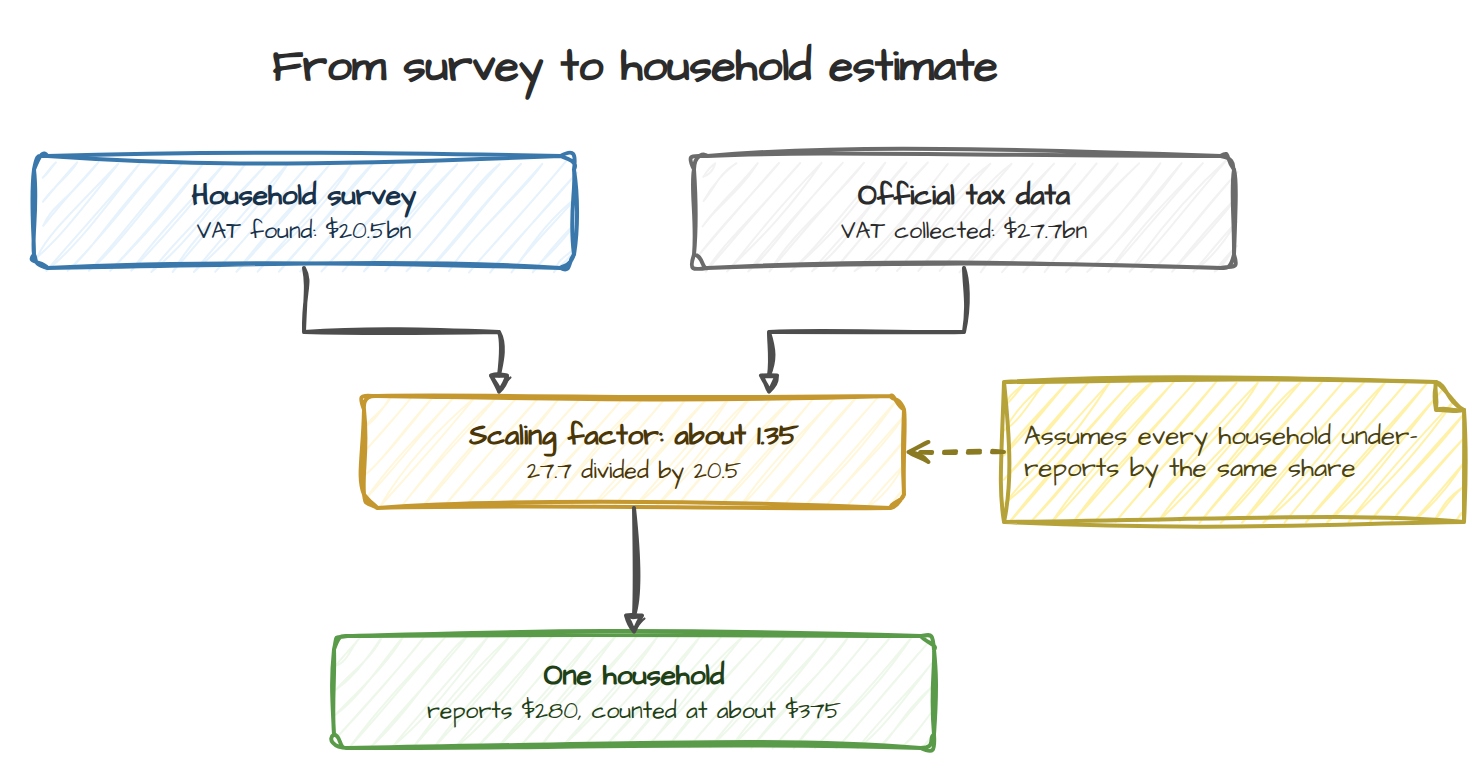
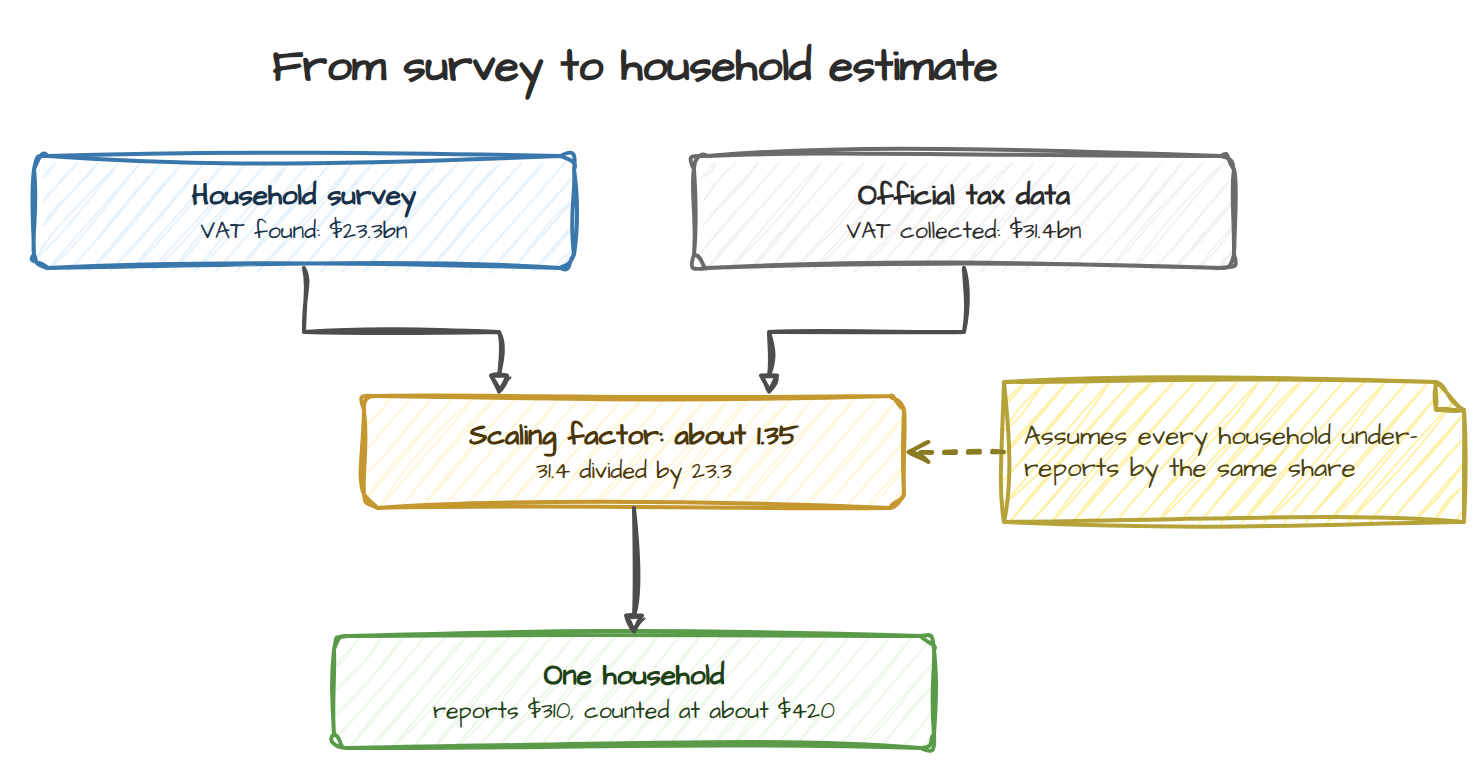
Convert explainer figures at 3.18 NIS per dollar

diff --git a/_posts/2026-11-10-taxes-and-wonders-explainer-en.md b/_posts/2026-11-10-taxes-and-wonders-explainer-en.md
@@ -27,7 +27,7 @@ The paper is about 47 pages, with 34 charts and one big table. I read it chart b
 
 All numbers come from the paper. When I calculated something myself, I say so. Charts marked "my chart" are my redraws of the paper's values, not the originals.
 
-> Money in this post: the paper uses shekels (NIS). I convert to US dollars at 3.6 NIS per $, about the 2018 average. This is the market rate, not purchasing power, so treat dollars as a rough feel for size. All figures are 2018 and rounded.
+> Money in this post: the paper uses shekels (NIS). I convert to US dollars at 3.18 NIS per $, the current rate. The data is from 2018, so this mixes 2018 shekels with today's exchange rate and ignores inflation and purchasing power. Treat dollars as a rough feel for size. All figures are rounded.
 {: .prompt-info }
 
 ## 02. The question
@@ -40,15 +40,15 @@ Second, most of what the state gives is not cash. It is a school, a clinic, a bu
 
 So the paper assigns each household a tax burden and a value of services received, then subtracts.
 
-The paper's own example (p. 3): the Cohen family gets $700 a month from the state in cash. Another family gets no cash, but its kids go to a public school that costs the state the same $700 a month in teacher pay. For the treasury these are the same. For a payslip they look very different. The paper counts both.
+The paper's own example (p. 3): the Cohen family gets $790 a month from the state in cash. Another family gets no cash, but its kids go to a public school that costs the state the same $790 a month in teacher pay. For the treasury these are the same. For a payslip they look very different. The paper counts both.
 
 ## 03. The headline result
 
 The paper's summary (p. 2), per household per month:
 
-- Non-Haredi Jewish household: pays about $1,700 more than it gets back. About 70% of these households pay more than they get.
-- Haredi (ultra-Orthodox) household: gets about $1,100 more than it pays. About 80% get more.
-- Arab household: gets about $280 more. About 60% get more.
+- Non-Haredi Jewish household: pays about $1,900 more than it gets back. About 70% of these households pay more than they get.
+- Haredi (ultra-Orthodox) household: gets about $1,300 more than it pays. About 80% get more.
+- Arab household: gets about $310 more. About 60% get more.
 
 The paper is positive, not normative. It describes what is, and does not say if it is fair or right (p. 4).
 
@@ -69,10 +69,10 @@ Why not newer years? The response rate fell from about 75% to about 64% in 2019 
 
 The survey alone is not enough. People under-report what they spend, so the survey finds less VAT than the state collected. The fix is simple. The authors take the official total, divide it by the survey total, and multiply every household by that factor.
 
-![Diagram: survey VAT of $20.5bn and official VAT of $27.7bn give a scaling factor of about 1.35, so a household that reports $280 is counted at about $375](/assets/images/taxes-explainer-en/scaling-flow.png)
-_My diagram. The two totals are from Table 1 of the paper. The $280 household is made up._
+![Diagram: survey VAT of $23.3bn and official VAT of $31.4bn give a scaling factor of about 1.35, so a household that reports $310 is counted at about $420](/assets/images/taxes-explainer-en/scaling-flow.png)
+_My diagram. The two totals are from Table 1 of the paper. The $310 household is made up._
 
-For VAT the factor is about 1.35 (my calculation: 99.87 divided by 73.97, in shekel billions). A household that reports $280 of VAT gets counted at about $375.
+For VAT the factor is about 1.35 (my calculation: 99.87 divided by 73.97, in shekel billions). A household that reports $310 of VAT gets counted at about $420.
 
 This assumes everybody under-reports by the same share. If richer households under-report more, the same factor does not fix it. I found no test of this in the paper or the appendix.
 
@@ -96,36 +96,36 @@ Cash benefits and services are counted by who uses them. Schools by the ages of 
 
 ## 07. The main chart: taxes, services, net
 
-Taxes counted in the main analysis: $113bn. Services counted: $74bn. The paper's tax total covers about 96% of what the state collects. Its spending total covers about 50% of what the state spends. Earlier studies, the authors say, covered about 27% of taxes and 14% of spending (p. 46).
+Taxes counted in the main analysis: $127.5bn. Services counted: $84.2bn. The paper's tax total covers about 96% of what the state collects. Its spending total covers about 50% of what the state spends. Earlier studies, the authors say, covered about 27% of taxes and 14% of spending (p. 46).
 
 Here are the values for each income decile (charts 6, 17 and 2 of the paper):
 
-![Bar chart by income decile: taxes rising from about $1,050 to about $10,130 a month, services falling slowly from about $2,930 to about $2,160, and net transfer going from +$1,880 to −$7,970](/assets/images/taxes-explainer-en/net-by-decile.svg)
+![Bar chart by income decile: taxes rising from about $1,190 to about $11,470 a month, services falling slowly from about $3,320 to about $2,450, and net transfer going from +$2,130 to −$9,020](/assets/images/taxes-explainer-en/net-by-decile.svg)
 _My chart, from charts 2, 6 and 17 of the paper. USD per household per month, rounded._
 
 We can read three things:
 
-- Taxes climb steeply, from about $1,050 in decile 1 to about $10,130 in decile 10.
-- Services are almost flat. Decile 1 gets about $2,930 and decile 10 about $2,160.
+- Taxes climb steeply, from about $1,190 in decile 1 to about $11,470 in decile 10.
+- Services are almost flat. Decile 1 gets about $3,320 and decile 10 about $2,450.
 - The net transfer is the gap between the two. It turns negative at decile 5.
 
-The top decile's net of −$7,970 a month is the biggest bar. But it does not mean the top decile "funds" the bottom one. Taxes also pay for things the paper does not count, like defense and interest. That is why taxes ($113bn) are bigger than the services counted ($74bn). The gap is about $38bn a year (the paper says about 138 billion shekels, p. 8).
+The top decile's net of −$9,020 a month is the biggest bar. But it does not mean the top decile "funds" the bottom one. Taxes also pay for things the paper does not count, like defense and interest. That is why taxes ($127.5bn) are bigger than the services counted ($84.2bn). The gap is about $43bn a year (the paper says about 138 billion shekels, p. 8).
 
 ## 08. The same chart, by group
 
 The paper splits households into three groups: non-Haredi Jews, Haredi Jews and Arab citizens (chart 3).
 
-![Two bar panels. Per household per month: non-Haredi Jews −$1,700, Haredi Jews +$1,140, Arab citizens +$290. Total per year: −$41.9bn, +$2.3bn, +$1.3bn](/assets/images/taxes-explainer-en/net-by-sector.svg)
+![Two bar panels. Per household per month: non-Haredi Jews −$1,920, Haredi Jews +$1,290, Arab citizens +$330. Total per year: −$47.4bn, +$2.6bn, +$1.5bn](/assets/images/taxes-explainer-en/net-by-sector.svg)
 _My chart, from chart 3 of the paper. Without defense and infrastructure, and without the cost of military service._
 
-Look at both panels. The Haredi group gets +$1,140 per household, but only +$2.3bn in total. The reason is size. The yearly total depends on how many households are in the group. Working back (my calculation), that is about 168,000 Haredi households, about 378,000 Arab households and about 2.06 million non-Haredi Jewish households.
+Look at both panels. The Haredi group gets +$1,290 per household, but only +$2.6bn in total. The reason is size. The yearly total depends on how many households are in the group. Working back (my calculation), that is about 168,000 Haredi households, about 378,000 Arab households and about 2.06 million non-Haredi Jewish households.
 
 Where do the percentages from the summary come from? The paper also splits each group into its own ten deciles (chart 4). Net transfers turn negative from decile 4 for non-Haredi Jews, decile 7 for Arab citizens and decile 9 for Haredi Jews. So about 30%, 60% and 80% of these groups respectively are net receivers.
 
 Two warnings:
 
 - A group's decile is inside that group. Decile 10 of the Arab group is not the national top decile.
-- Military service is not in the numbers. Conscription is a hidden tax, because conscripts earn less than their economic cost. A separate study puts it at about 3.7% of GDP, about $14bn in 2018. The survey has no data on service, so the paper cannot assign it. The authors say the burden falls mostly on non-Haredi Jews, so their negative figure would be larger (p. 36).
+- Military service is not in the numbers. Conscription is a hidden tax, because conscripts earn less than their economic cost. A separate study puts it at about 3.7% of GDP, about $15bn in 2018. The survey has no data on service, so the paper cannot assign it. The authors say the burden falls mostly on non-Haredi Jews, so their negative figure would be larger (p. 36).
 
 ## 09. Taxes: who pays what
 
@@ -138,15 +138,15 @@ Income tax and social insurance grow fast with income. VAT, excise and customs g
 
 Two examples (my calculation):
 
-- VAT is 45% of the bottom decile's tax bill ($470 of $1,050).
-- Income tax is 42% of the top decile's tax bill ($4,280 of $10,130).
+- VAT is 45% of the bottom decile's tax bill ($530 of $1,190).
+- Income tax is 42% of the top decile's tax bill ($4,840 of $11,470).
 
-The income tax ratio is huge because the bottom decile pays only about $6 a month. Most of them are under the tax threshold.
+The income tax ratio is huge because the bottom decile pays only about $7 a month. Most of them are under the tax threshold.
 
-![Funds flow diagram in USD billions: revenue of about $113bn in counted taxes plus about $34bn of other revenue and borrowing flows into the state, which spends about $74bn on counted services and about $72bn on items not counted](/assets/images/taxes-explainer-en/composition.svg)
+![Funds flow diagram in USD billions: revenue of about $128bn in counted taxes plus about $39bn of other revenue and borrowing flows into the state, which spends about $84bn on counted services and about $82bn on items not counted](/assets/images/taxes-explainer-en/composition.svg)
 _My chart, from Table 1 of the paper (p. 38). The "other revenue, borrowing" bar is my calculation: total spending minus counted taxes._
 
-Read it left to right. VAT ($27.7bn) and income tax ($26.5bn) are the two biggest taxes. National Insurance and health tax is third ($19.6bn). Counted taxes add up to about $113bn. The state spends about $147bn in total, so about $34bn comes from other revenue and borrowing. That figure is my subtraction, not the paper's.
+Read it left to right. VAT ($31.4bn) and income tax ($30.0bn) are the two biggest taxes. National Insurance and health tax is third ($22.2bn). Counted taxes add up to about $128bn. The state spends about $166bn in total, so about $39bn comes from other revenue and borrowing. That figure is my subtraction, not the paper's.
 
 On the right, the blue bars are the services the paper assigns to households. The gray bars are what it leaves out of the main analysis.
 
@@ -163,13 +163,13 @@ Most spending leans to the lower deciles. Three items do not:
 - Cash benefits are about equal, because the old-age pension reaches the upper deciles too.
 - Culture, sport and leisure is the only item that clearly rises with income.
 
-Schools are a strong example of the other direction. Decile 1 gets about $840 a month in education spending per household. Decile 10 gets about $350. The paper says there are more children in the lower deciles (next section).
+Schools are a strong example of the other direction. Decile 1 gets about $950 a month in education spending per household. Decile 10 gets about $400. The paper says there are more children in the lower deciles (next section).
 
 What is left out, and why. The first two enter only a second, wider analysis. The third is not counted anywhere.
 
-- Defense and internal security, about $27bn together. They are public goods. One person using them does not stop another. There is no agreed way to split them. The authors say the result of any split follows directly from the assumptions (p. 35).
-- Infrastructure, about $13bn. It serves future generations too, and the price of water or power already includes building it.
-- Interest on debt, about $9bn, and budget pensions. The debt was created in the past, so it is unclear who should carry today's payment.
+- Defense and internal security, about $30bn together. They are public goods. One person using them does not stop another. There is no agreed way to split them. The authors say the result of any split follows directly from the assumptions (p. 35).
+- Infrastructure, about $14bn. It serves future generations too, and the price of water or power already includes building it.
+- Interest on debt, about $10bn, and budget pensions. The debt was created in the past, so it is unclear who should carry today's payment.
 
 ## 11. Households: kids and age
 
@@ -182,8 +182,8 @@ A decile 1 household has about 1.7 children on average. A decile 10 household ha
 
 The paper also looks at couples by number of children (chart 30):
 
-![Bar chart of net transfers to couples by number of children: 0 children −$1,340, 1 −$2,250, 2 −$2,220, 3 −$2,220, 4 −$270, 5 +$1,490, 6 or more +$3,470 per month](/assets/images/taxes-explainer-en/household-structure.svg)
-_My chart, from chart 30 of the paper. Single parents (0, 1, 2, 3 or more children): −$370, −$290, +$280, +$2,260 a month._
+![Bar chart of net transfers to couples by number of children: 0 children −$1,520, 1 −$2,550, 2 −$2,520, 3 −$2,520, 4 −$300, 5 +$1,690, 6 or more +$3,930 per month](/assets/images/taxes-explainer-en/household-structure.svg)
+_My chart, from chart 30 of the paper. Single parents (0, 1, 2, 3 or more children): −$410, −$320, +$320, +$2,560 a month._
 
 Couples with up to 3 children pay net. With 4 they are about break-even. With 5 or more they receive net. Taxes rise until the third child and fall from the fourth. The paper notes the fall and does not explain it.
 
@@ -195,7 +195,7 @@ The authors ask if the picture holds when the assumptions change.
 
 ### Expenditure deciles
 
-Income in one year is a noisy sign of how well off a family is. Young and old households can have low income now and high spending. So the paper ranks households by spending too (chart 33). The shape is the same. The top decile's net is −$6,150 instead of −$7,970 a month.
+Income in one year is a noisy sign of how well off a family is. Young and old households can have low income now and high spending. So the paper ranks households by spending too (chart 33). The shape is the same. The top decile's net is −$6,960 instead of −$9,020 a month.
 
 ### Gini index
 
@@ -210,7 +210,7 @@ Adding the missing taxes and services lowers measured inequality, from 0.326 to 
 
 The appendix changes the assumptions one at a time, and then together:
 
-- Add the missing spending, about $47bn, in three ways. Net-negative deciles shrink from 5 to 10 down to 8 to 10.
+- Add the missing spending, about $53bn, in three ways. Net-negative deciles shrink from 5 to 10 down to 8 to 10.
 - Scale spending up so it matches taxes. Then only the top five deciles of non-Haredi Jews pay net.
 - Split VAT three ways instead of all on the consumer. Deciles 7 to 10 pay more, 1 to 6 pay less.
 - Split income tax half and half between worker and employer. Less progressive, but still progressive.
@@ -224,7 +224,7 @@ Why is it so stable? Labor income, spending and capital income are tightly linke
 
 - Net transfer is a gap between counted taxes and counted services. It is not a donation or a debt. The paper is positive, so any normative conclusion comes from the reader.
 - Decile figures are averages. Two households in the same decile can be at very different stages of life.
-- About $72bn of spending is not counted, and the answer depends on the choices made for it.
+- About $82bn of spending is not counted, and the answer depends on the choices made for it.
 - The paper counts what a service costs the state, not what it is worth to the household (note 2).
 - The data is 2018. The paper gives reasons, but there is no check against later years.
 - The paper assumes households do not change behavior. It warns that simulations need care (p. 46).
